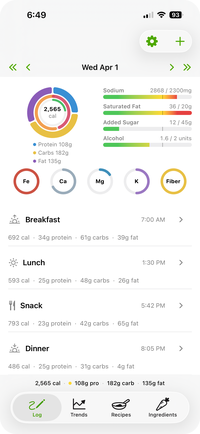
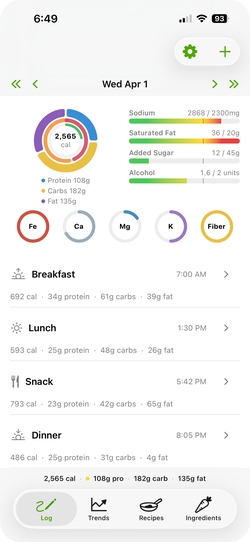
Sync: hero shot rendered natively at 250w
Public-flat layout means the README's screenshots/log_view.png now
holds the natively-rendered 250w version, eliminating browser upscale.

diff --git a/README.md b/README.md
@@ -4,7 +4,7 @@ A nutrition tracker for people who cook and don't want or need another account o
 
 If you make most of your food from real ingredients and you've spent ten minutes inside a mainstream nutrition app wondering where the recipe button is, this is for you.
 
-<img align="left" width="240" hspace="16" src="screenshots/log_view.png" alt="Log tab with chart header and meals">
+<img align="left" width="250" hspace="16" src="screenshots/log_view.png" alt="Log tab with chart header and meals">
 
 - **Over 350 ingredients on day one.** Eggs, olive oil, black beans, cheddar, oats — the stuff you actually cook with is already there with full USDA nutrition data. No data entry before your first meal.
 - **Scan a barcode.** Point your camera at a product barcode and the app looks it up instantly.
